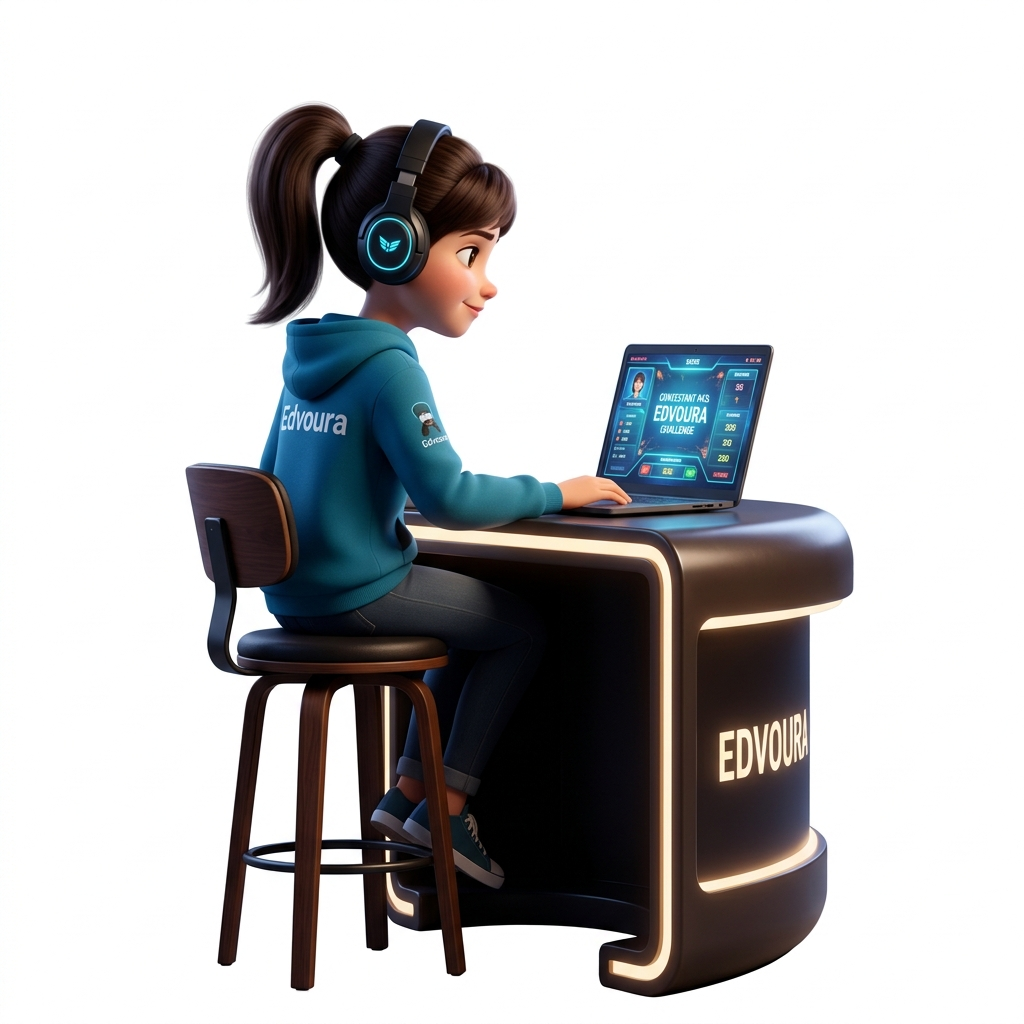
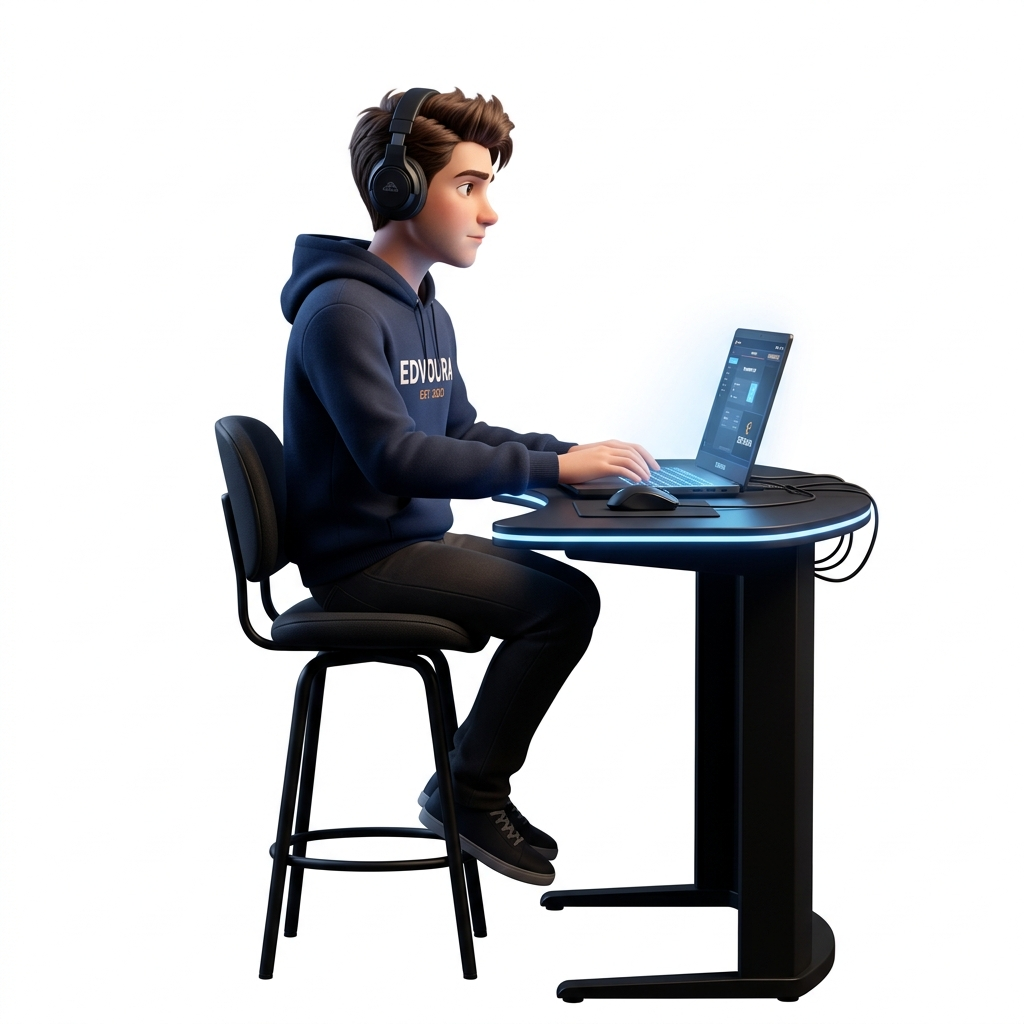
fix: replace white background contestant cutout with pure black background image for 100% seamless studio blending

diff --git a/apps/web/src/app/dash/student/games/millionaire/page.tsx b/apps/web/src/app/dash/student/games/millionaire/page.tsx
@@ -1104,11 +1104,13 @@ export default function MillionaireGame() {
                     style={{
                       width: '100%', height: '100%', objectFit: 'contain',
                       mixBlendMode: 'screen',
-                      filter: 'drop-shadow(0 0 20px rgba(56, 189, 248, 0.5))'
+                      filter: 'drop-shadow(0 0 20px rgba(56, 189, 248, 0.5))',
+                      backgroundColor: 'transparent'
                     }}
                     onError={(e) => {
                       (e.target as HTMLImageElement).src = '/images/millionaire/millionaire_contestant_profile.jpg';
-                      (e.target as HTMLImageElement).style.mixBlendMode = 'normal';
+                      (e.target as HTMLImageElement).style.mixBlendMode = 'screen';
+                      (e.target as HTMLImageElement).style.backgroundColor = '#000000';
                     }}
                   />
                 </div>
